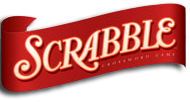
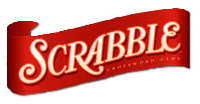
Update SideMenu size and Scrabble image

diff --git a/Scrabble Client/src/views/swing/gameboard/SideMenu.java b/Scrabble Client/src/views/swing/gameboard/SideMenu.java
@@ -20,7 +20,7 @@ import views.swing.common.ImageIconTools;
  */
 public class SideMenu {
 		
-	
+		public static final int SIDE_MENU_WIDTH = 250;
 	 private static JPanel panel;
 		private GameBoard gameBoard;
 	 private JButton playerButton, scrabbleButton, gameBoardButton, scoreTestButton,
@@ -35,12 +35,12 @@ public class SideMenu {
 		private EmailValidator emailValidator;
 		private boolean playerIsLogged = false;
 		private Rack rack;
-		private boolean debug = true;
+		private boolean debug = false;
 
 		public SideMenu()	{
 				panel = new JPanel();
 				panel.setLayout(null);
-				panel.setBounds(700, 0, 300, 800);
+				panel.setBounds(700, 0, SIDE_MENU_WIDTH, 800);
 				panel.setOpaque(false);
 				this.initComponent();
 		}
@@ -134,7 +134,8 @@ public class SideMenu {
 				helpOn = new JMenuItem(new AbstractAction("Help") {
 						@Override
 						public void actionPerformed(ActionEvent e) {
-								JOptionPane.showMessageDialog(null, Blah.HELP_ON, "Help", JOptionPane.INFORMATION_MESSAGE);
+								JOptionPane.showMessageDialog(null, Blah.HELP_ON, "Help", 
+																JOptionPane.INFORMATION_MESSAGE);
 						}
 				});
 								
@@ -157,7 +158,8 @@ public class SideMenu {
 				helpOff = new JMenuItem(new AbstractAction("Help") {
 						@Override
 						public void actionPerformed(ActionEvent e) {
-								JOptionPane.showMessageDialog(null, Blah.HELP_OFF, "Help", JOptionPane.INFORMATION_MESSAGE);
+								JOptionPane.showMessageDialog(null, Blah.HELP_OFF, "Help", 
+																JOptionPane.INFORMATION_MESSAGE);
 						}
 				});
 				
@@ -168,7 +170,7 @@ public class SideMenu {
 		private void initPlayerButton() {
 				playerButton = new JButton();
 				playerButton.setPreferredSize(new Dimension(80,80));
-				playerButton.setBounds(panel.getWidth()-80, 1, 80, 80);
+				playerButton.setBounds(panel.getWidth()-87, 1, 80, 80);
 				playerButton.setIcon(ImageIconTools.getGravatar("default@gravatar.logo"));
 				playerButton.addMouseListener(new MouseAdapter() {
 						@Override
@@ -189,7 +191,8 @@ public class SideMenu {
 				score.setBounds(panel.getWidth()-160, 24, 80, 80);
 				Font font = null;
 				try {
-						font = Font.createFont(Font.TRUETYPE_FONT, new File(SideMenu.class.getResource("/views/swing/media/DS-DIGI.ttf").toURI()));
+						font = Font.createFont(Font.TRUETYPE_FONT, new File(SideMenu.class.getResource(
+														"/views/swing/media/DS-DIGI.ttf").toURI()));
 				} catch (FontFormatException | IOException | URISyntaxException ex) {
 						Logger.getLogger(SideMenu.class.getName()).log(Level.SEVERE, null, ex);
 				}
@@ -199,17 +202,20 @@ public class SideMenu {
 		}
 		
 		private void initScrabbleButton() {
-				scrabbleButton = new JButton(ImageIconTools.createImageIcon("/views/swing/media/Scrabble.png","Scrabble"));
+				scrabbleButton = new JButton(ImageIconTools.createImageIcon(
+												"/views/swing/media/Scrabble.png","Scrabble"));
 				scrabbleButton.setPreferredSize(new Dimension(190,102));
 				scrabbleButton.addActionListener(new AbstractAction() {
 
 						@Override
 						public void actionPerformed(ActionEvent e) {
-								JOptionPane.showMessageDialog(null, Blah.ABOUT, "About", JOptionPane.INFORMATION_MESSAGE);
+								JOptionPane.showMessageDialog(null, Blah.ABOUT, "About", 
+																JOptionPane.INFORMATION_MESSAGE);
 						}
 				});
 				scrabbleButton.setBounds(panel.getWidth()/2-95, panel.getHeight()-103, 190, 102);
 				scrabbleButton.setBackground(Color.WHITE);
+				scrabbleButton.setOpaque(false);
 				scrabbleButton.setBorder(null);
 		}
 		
@@ -223,6 +229,7 @@ public class SideMenu {
 								gameBoard.changeGameBoard();
 						}
 				});
+				gameBoardButton.setVisible(false);
 		}
 		
 		private void initAddWordButton() {

diff --git a/Scrabble Client/src/views/swing/gameboard/Scrabble.java b/Scrabble Client/src/views/swing/gameboard/Scrabble.java
@@ -31,7 +31,8 @@ public class Scrabble {
 		}
 
 		private void initContainer() {
-				bg = new JLabel(ImageIconTools.createImageIcon("/views/swing/media/darker_background.png",""));
+				bg = new JLabel(ImageIconTools.createImageIcon(""
+												+ "/views/swing/media/darker_background.png",""));
 				bg.setBounds(0, 0, 1024, 1024);
 				contentPane =  frame.getContentPane() ;
 				contentPane.setBackground(Color.WHITE);
@@ -47,7 +48,8 @@ public class Scrabble {
 		
 		private void initFrame() {
 				frame.setDefaultCloseOperation(JFrame.EXIT_ON_CLOSE);
-				frame.setSize(gb.getWidth() + gb.getInsets().left+gb.getInsets().right + 307, 850);
+				frame.setSize(gb.getWidth() + gb.getInsets().left+gb.getInsets().right + 
+												SideMenu.SIDE_MENU_WIDTH, 850);
 				frame.setContentPane(contentPane);
 				frame.setGlassPane(GlassPane.getInstance());
 				frame.setLocationRelativeTo(null);
